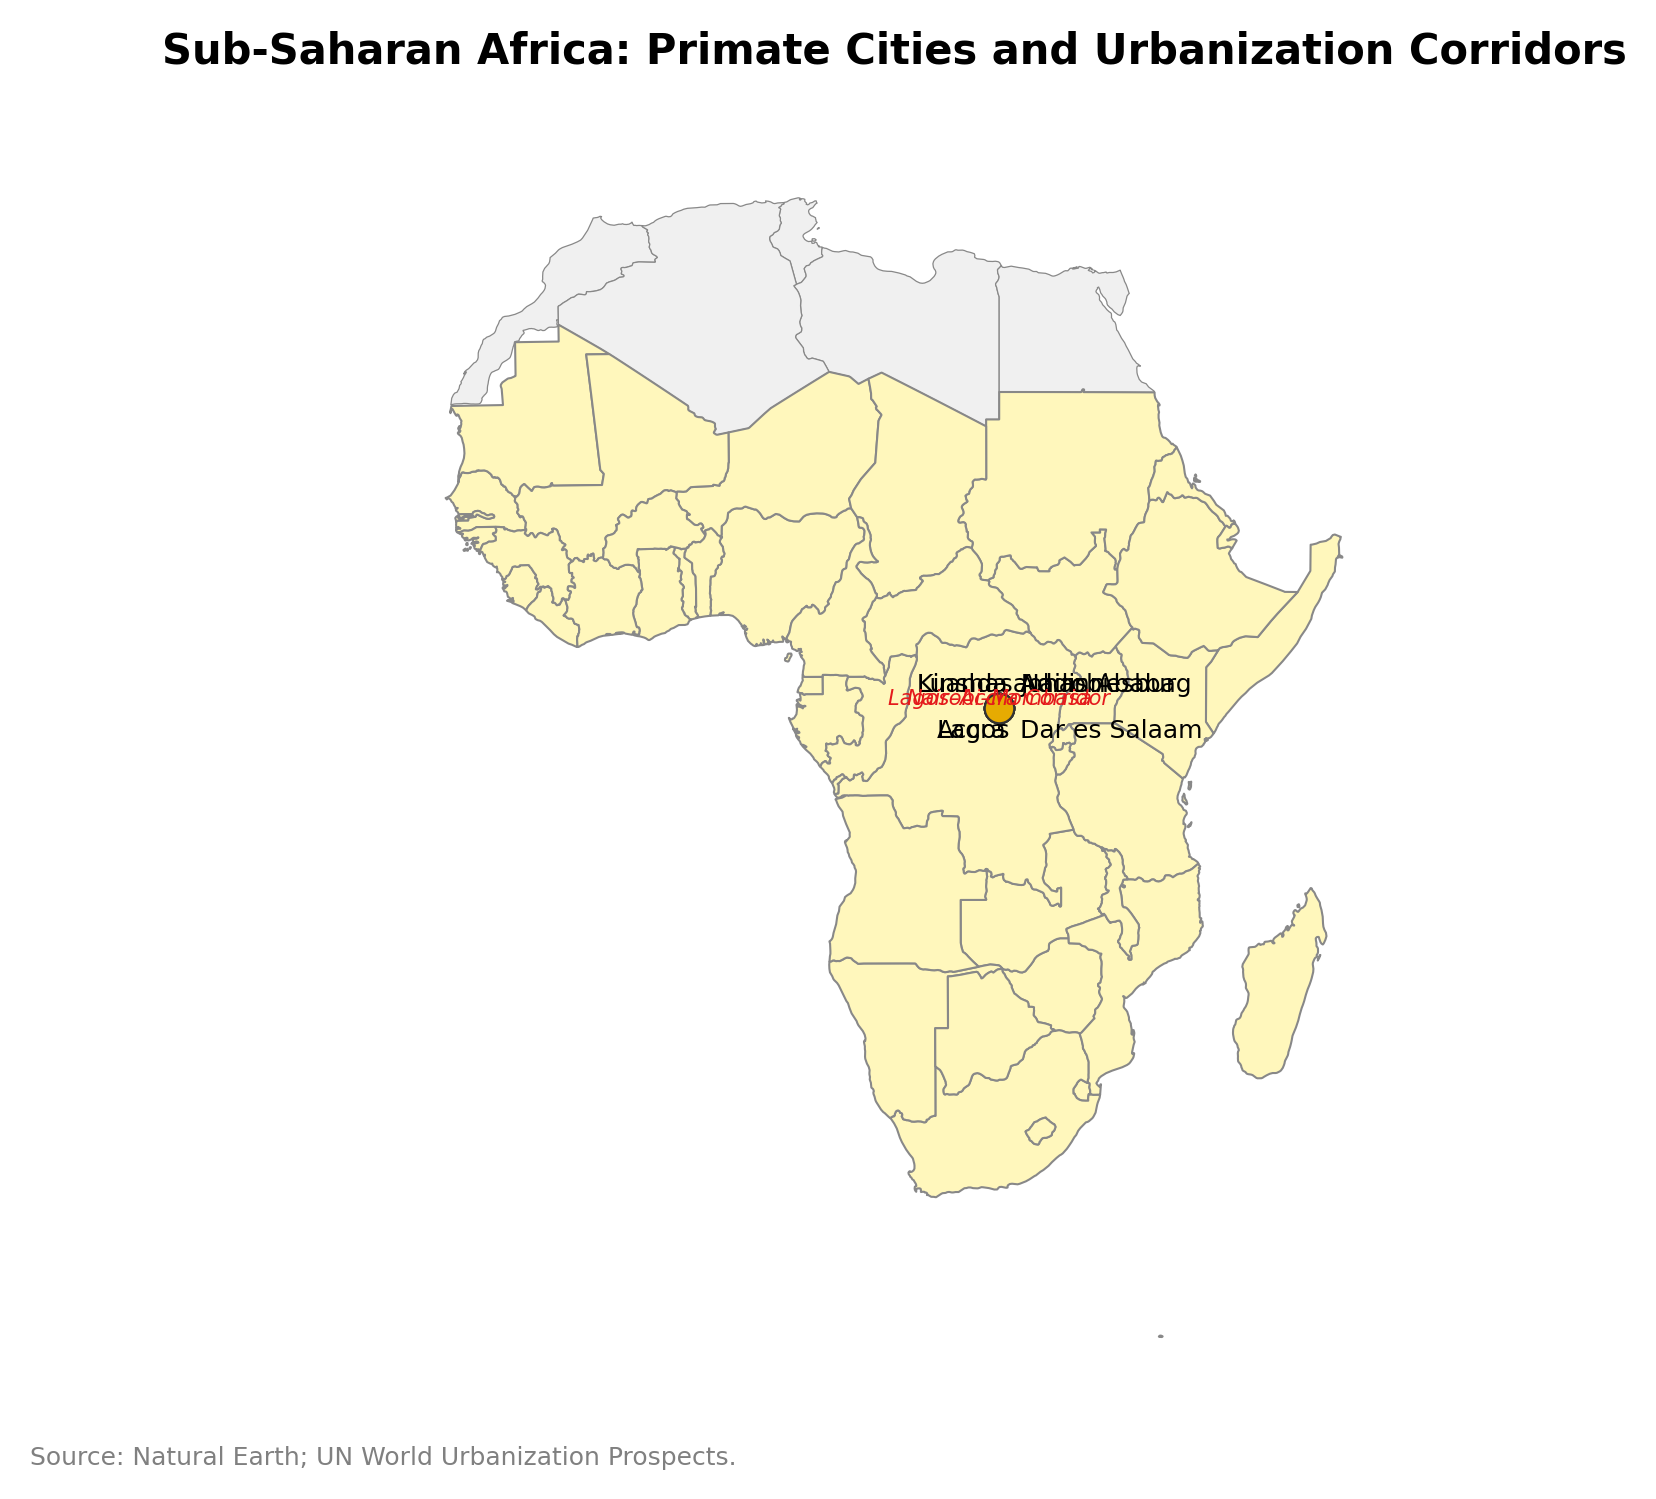
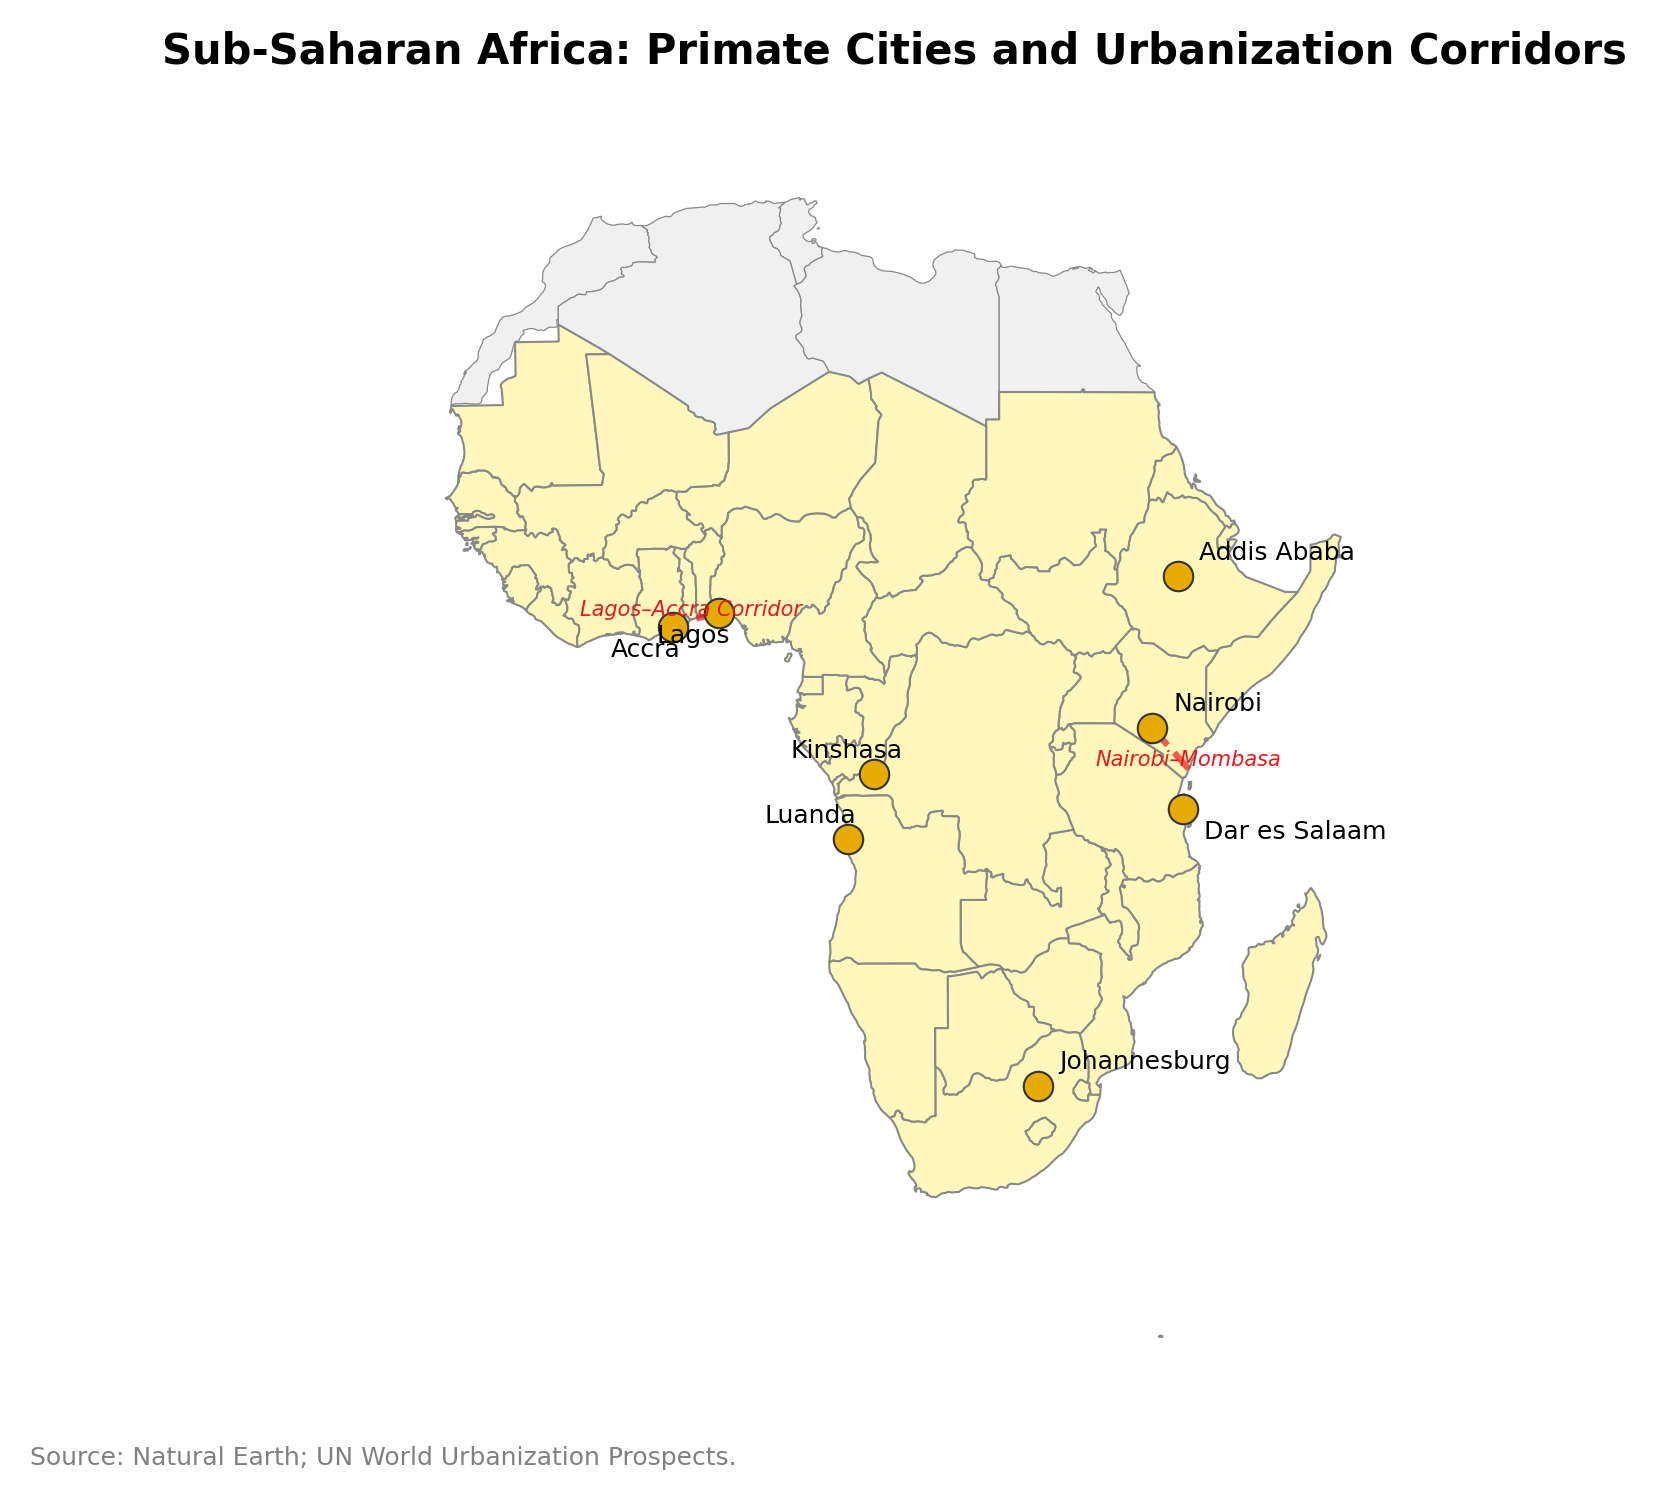
Fix map label positioning: project annotations to match map CRS
City labels, corridor lines, energy field markers, and refugee flow
arrows were plotted at raw lat/lon coordinates while map geometries
were reprojected to regional CRS (EPSG:3035, ESRI:54030, etc.).
Added project_cities/project_corridors/project_arrows helpers using
pyproj and updated all 12 map scripts (ch04–ch15) to transform
annotation coordinates before plotting. Regenerated all 24 PNGs.

diff --git a/figures/figure_utils.py b/figures/figure_utils.py
@@ -202,10 +202,61 @@ def load_annotations(chapter: str | None = None) -> Dict[str, Any]:
     return data
 
 
+def _project_point(lon: float, lat: float, crs) -> Tuple[float, float]:
+    """Transform a single lon/lat point to the target CRS."""
+    from pyproj import Transformer
+    transformer = Transformer.from_crs("EPSG:4326", crs, always_xy=True)
+    return transformer.transform(lon, lat)
+
+
+def project_cities(cities: List[Dict], crs) -> List[Dict]:
+    """Return a copy of city dicts with lon/lat projected to target CRS."""
+    from pyproj import Transformer
+    transformer = Transformer.from_crs("EPSG:4326", crs, always_xy=True)
+    out = []
+    for city in cities:
+        c = dict(city)
+        c["lon"], c["lat"] = transformer.transform(city["lon"], city["lat"])
+        out.append(c)
+    return out
+
+
+def project_corridors(corridors: List[Dict], crs) -> List[Dict]:
+    """Return a copy of corridor dicts with waypoints projected to target CRS."""
+    from pyproj import Transformer
+    transformer = Transformer.from_crs("EPSG:4326", crs, always_xy=True)
+    out = []
+    for corr in corridors:
+        c = dict(corr)
+        projected = []
+        for lon, lat in corr["waypoints"]:
+            px, py = transformer.transform(lon, lat)
+            projected.append([px, py])
+        c["waypoints"] = projected
+        out.append(c)
+    return out
+
+
+def project_arrows(arrows: List[Dict], crs) -> List[Dict]:
+    """Return a copy of arrow dicts with start/end projected to target CRS."""
+    from pyproj import Transformer
+    transformer = Transformer.from_crs("EPSG:4326", crs, always_xy=True)
+    out = []
+    for arrow in arrows:
+        a = dict(arrow)
+        sx, sy = transformer.transform(arrow["start"][0], arrow["start"][1])
+        ex, ey = transformer.transform(arrow["end"][0], arrow["end"][1])
+        a["start"] = [sx, sy]
+        a["end"] = [ex, ey]
+        out.append(a)
+    return out
+
+
 def annotate_cities(ax, cities: List[Dict], transform=None):
     """Plot city markers and labels on a matplotlib axis.
 
     Each city dict: {name, lat, lon, label_offset: [dx, dy], style: str}
+    Cities should already be projected to the map CRS via project_cities().
     """
     for city in cities:
         x, y = city["lon"], city["lat"]
@@ -216,20 +267,19 @@ def annotate_cities(ax, cities: List[Dict], transform=None):
         color = "#333333" if style == "major" else "#666666"
         fontsize = 7 if style == "major" else 6
 
-        kwargs = {"transform": transform} if transform is not None else {}
-        ax.scatter(x, y, s=size, c=color, marker=marker, zorder=5, **kwargs)
+        ax.scatter(x, y, s=size, c=color, marker=marker, zorder=5)
         ax.annotate(
             city["name"], (x, y), xytext=(dx, dy),
             textcoords="offset points", fontsize=fontsize,
             ha="left", va="bottom", zorder=6,
-            **({} if transform is None else {}),
         )
 
 
 def annotate_corridors(ax, corridors: List[Dict], transform=None):
     """Draw corridor route lines on a matplotlib axis.
 
-    Each corridor dict: {name, waypoints: [[lon,lat],...], style: str}
+    Each corridor dict: {name, waypoints: [[x,y],...], style: str}
+    Waypoints should already be projected to the map CRS via project_corridors().
     """
     for corridor in corridors:
         pts = np.array(corridor["waypoints"])
@@ -254,7 +304,8 @@ def annotate_corridors(ax, corridors: List[Dict], transform=None):
 def annotate_arrows(ax, arrows: List[Dict], transform=None):
     """Draw directional flow arrows on a matplotlib axis.
 
-    Each arrow dict: {label, start: [lon,lat], end: [lon,lat], style: str}
+    Each arrow dict: {label, start: [x,y], end: [x,y], style: str}
+    Points should already be projected to the map CRS via project_arrows().
     """
     for arrow in arrows:
         x0, y0 = arrow["start"]

diff --git a/figures/ch11_figures.py b/figures/ch11_figures.py
@@ -18,7 +18,7 @@ from figure_utils import (
     FIGSIZE_MAP, LAND_COLOR, WATER_COLOR, BORDER_COLOR, REGION_COLORS,
     add_figure_source, save_figure, save_summary,
     add_common_args, get_output_dir, setup_map_ax, load_annotations,
-    annotate_cities,
+    annotate_cities, project_cities,
 )
 
 
@@ -58,17 +58,21 @@ def plot_mena_energy_map(output_dir: Path, seed: int = 42) -> dict:
     setup_map_ax(ax, "MENA: GCC Energy Economies and Diversification Hubs")
 
     ann = load_annotations("ch11")
+    crs = PROJECTIONS["mena"]
     if ann.get("cities"):
-        annotate_cities(ax, ann["cities"])
+        annotate_cities(ax, project_cities(ann["cities"], crs))
 
-    # Energy field markers
-    for field in ann.get("energy_zones", []):
-        ax.plot(field["lon"], field["lat"], "^", color="#d62728",
-                markersize=8, zorder=5, alpha=0.8)
-        ax.annotate(field["name"], (field["lon"], field["lat"]),
-                    fontsize=4.5, ha="left", va="bottom",
-                    xytext=(3, 3), textcoords="offset points",
-                    color="#d62728")
+    # Energy field markers (project to map CRS)
+    energy_zones = ann.get("energy_zones", [])
+    if energy_zones:
+        proj_zones = project_cities(energy_zones, crs)  # same lon/lat structure
+        for field in proj_zones:
+            ax.plot(field["lon"], field["lat"], "^", color="#d62728",
+                    markersize=8, zorder=5, alpha=0.8)
+            ax.annotate(field["name"], (field["lon"], field["lat"]),
+                        fontsize=4.5, ha="left", va="bottom",
+                        xytext=(3, 3), textcoords="offset points",
+                        color="#d62728")
 
     from matplotlib.patches import Patch
     from matplotlib.lines import Line2D

diff --git a/figures/ch13_figures.py b/figures/ch13_figures.py
@@ -18,7 +18,7 @@ from figure_utils import (
     FIGSIZE_MAP, LAND_COLOR, WATER_COLOR, BORDER_COLOR, REGION_COLORS,
     add_figure_source, save_figure, save_summary,
     add_common_args, get_output_dir, setup_map_ax, load_annotations,
-    annotate_cities, annotate_corridors,
+    annotate_cities, annotate_corridors, project_cities, project_corridors,
 )
 
 
@@ -48,9 +48,10 @@ def plot_ssa_urbanization_map(output_dir: Path, seed: int = 42) -> dict:
     setup_map_ax(ax, "Sub-Saharan Africa: Primate Cities and Urbanization Corridors")
 
     ann = load_annotations("ch13")
+    crs = PROJECTIONS["africa"]
     if ann.get("cities"):
         # Plot cities with size proportional to importance
-        for city in ann["cities"]:
+        for city in project_cities(ann["cities"], crs):
             ax.scatter(city["lon"], city["lat"], s=50, c="#e6ab02",
                        edgecolors="#333333", linewidths=0.5, zorder=5)
             dx, dy = city.get("label_offset", [5, 3])
@@ -59,7 +60,7 @@ def plot_ssa_urbanization_map(output_dir: Path, seed: int = 42) -> dict:
                         xytext=(dx, dy), textcoords="offset points",
                         zorder=6)
     if ann.get("corridors"):
-        annotate_corridors(ax, ann["corridors"])
+        annotate_corridors(ax, project_corridors(ann["corridors"], crs))
 
     add_figure_source(fig, "Natural Earth; UN World Urbanization Prospects.")
     fig.tight_layout(rect=[0, 0.03, 1, 1])

diff --git a/figures/ch14_figures.py b/figures/ch14_figures.py
@@ -18,7 +18,7 @@ from figure_utils import (
     FIGSIZE_MAP, LAND_COLOR, WATER_COLOR, BORDER_COLOR, REGION_COLORS,
     add_figure_source, save_figure, save_summary,
     add_common_args, get_output_dir, setup_map_ax, load_annotations,
-    annotate_cities, annotate_corridors,
+    annotate_cities, annotate_corridors, project_cities, project_corridors,
 )
 
 
@@ -48,9 +48,10 @@ def plot_afcfta_corridors_map(output_dir: Path, seed: int = 42) -> dict:
     setup_map_ax(ax, "AfCFTA Trade Corridors and Major Ports")
 
     ann = load_annotations("ch14")
+    crs = PROJECTIONS["africa"]
     if ann.get("cities"):
         # Port cities as anchor markers
-        for city in ann["cities"]:
+        for city in project_cities(ann["cities"], crs):
             ax.scatter(city["lon"], city["lat"], s=40, c="#377eb8",
                        marker="s", edgecolors="#333333", linewidths=0.5, zorder=5)
             dx, dy = city.get("label_offset", [5, 3])
@@ -59,7 +60,7 @@ def plot_afcfta_corridors_map(output_dir: Path, seed: int = 42) -> dict:
                         xytext=(dx, dy), textcoords="offset points",
                         zorder=6)
     if ann.get("corridors"):
-        annotate_corridors(ax, ann["corridors"])
+        annotate_corridors(ax, project_corridors(ann["corridors"], crs))
 
     add_figure_source(fig, "Natural Earth; AfCFTA Secretariat; UNECA corridor database.")
     fig.tight_layout(rect=[0, 0.03, 1, 1])

diff --git a/figures/ch06_figures.py b/figures/ch06_figures.py
@@ -19,7 +19,7 @@ from figure_utils import (
     FIGSIZE_MAP, FIGSIZE_THEMATIC, LAND_COLOR, WATER_COLOR, BORDER_COLOR,
     REGION_COLORS, QUAL_PALETTE, add_figure_source, save_figure, save_summary,
     add_common_args, get_output_dir, setup_map_ax, load_annotations,
-    annotate_cities, annotate_corridors,
+    annotate_cities, annotate_corridors, project_cities, project_corridors,
 )
 
 
@@ -49,10 +49,11 @@ def plot_east_asia_map(output_dir: Path, seed: int = 42) -> dict:
     setup_map_ax(ax, "East Asia & ASEAN: Technology Corridors and SEZs")
 
     ann = load_annotations("ch06")
+    crs = PROJECTIONS["east_asia"]
     if ann.get("cities"):
-        annotate_cities(ax, ann["cities"])
+        annotate_cities(ax, project_cities(ann["cities"], crs))
     if ann.get("corridors"):
-        annotate_corridors(ax, ann["corridors"])
+        annotate_corridors(ax, project_corridors(ann["corridors"], crs))
 
     add_figure_source(fig, "Natural Earth; ASEAN Secretariat; national SEZ databases.")
     fig.tight_layout(rect=[0, 0.03, 1, 1])

diff --git a/figures/ch04_figures.py b/figures/ch04_figures.py
@@ -19,7 +19,7 @@ from figure_utils import (
     FIGSIZE_MAP, FIGSIZE_THEMATIC, LAND_COLOR, WATER_COLOR, BORDER_COLOR,
     REGION_COLORS, add_figure_source, save_figure, save_summary,
     add_common_args, get_output_dir, setup_map_ax, load_annotations,
-    annotate_cities, annotate_corridors,
+    annotate_cities, annotate_corridors, project_cities, project_corridors,
 )
 
 
@@ -55,10 +55,11 @@ def plot_north_america_map(output_dir: Path, seed: int = 42) -> dict:
     setup_map_ax(ax, "North America: USMCA, Industrial Belts & Trade Corridors")
 
     ann = load_annotations("ch04")
+    crs = PROJECTIONS["americas"]
     if ann.get("cities"):
-        annotate_cities(ax, ann["cities"])
+        annotate_cities(ax, project_cities(ann["cities"], crs))
     if ann.get("corridors"):
-        annotate_corridors(ax, ann["corridors"])
+        annotate_corridors(ax, project_corridors(ann["corridors"], crs))
 
     add_figure_source(fig, "Natural Earth; BTS cross-border flow data.")
     fig.tight_layout(rect=[0, 0.03, 1, 1])

diff --git a/figures/ch07_figures.py b/figures/ch07_figures.py
@@ -19,7 +19,7 @@ from figure_utils import (
     FIGSIZE_MAP, FIGSIZE_THEMATIC, LAND_COLOR, WATER_COLOR, BORDER_COLOR,
     REGION_COLORS, add_figure_source, save_figure, save_summary,
     add_common_args, get_output_dir, setup_map_ax, load_annotations,
-    annotate_cities, annotate_corridors,
+    annotate_cities, annotate_corridors, project_cities, project_corridors,
 )
 
 
@@ -53,10 +53,11 @@ def plot_china_asean_map(output_dir: Path, seed: int = 42) -> dict:
     setup_map_ax(ax, "China & ASEAN: BRI Corridors and Economic Integration")
 
     ann = load_annotations("ch07")
+    crs = PROJECTIONS["east_asia"]
     if ann.get("cities"):
-        annotate_cities(ax, ann["cities"])
+        annotate_cities(ax, project_cities(ann["cities"], crs))
     if ann.get("corridors"):
-        annotate_corridors(ax, ann["corridors"])
+        annotate_corridors(ax, project_corridors(ann["corridors"], crs))
 
     add_figure_source(fig, "Natural Earth; BRI official project list.")
     fig.tight_layout(rect=[0, 0.03, 1, 1])

diff --git a/figures/ch12_figures.py b/figures/ch12_figures.py
@@ -18,7 +18,7 @@ from figure_utils import (
     FIGSIZE_MAP, LAND_COLOR, WATER_COLOR, BORDER_COLOR,
     add_figure_source, save_figure, save_summary,
     add_common_args, get_output_dir, setup_map_ax, load_annotations,
-    annotate_cities, annotate_arrows,
+    annotate_cities, annotate_arrows, project_cities, project_arrows,
 )
 
 
@@ -60,10 +60,11 @@ def plot_conflict_zones_map(output_dir: Path, seed: int = 42) -> dict:
     setup_map_ax(ax, "MENA Conflict Zones and Refugee Displacement")
 
     ann = load_annotations("ch12")
+    crs = PROJECTIONS["mena"]
     if ann.get("cities"):
-        annotate_cities(ax, ann["cities"])
+        annotate_cities(ax, project_cities(ann["cities"], crs))
     if ann.get("refugee_flows"):
-        annotate_arrows(ax, ann["refugee_flows"])
+        annotate_arrows(ax, project_arrows(ann["refugee_flows"], crs))
 
     from matplotlib.patches import Patch
     legend_items = [

diff --git a/figures/ch09_figures.py b/figures/ch09_figures.py
@@ -18,7 +18,7 @@ from figure_utils import (
     FIGSIZE_MAP, LAND_COLOR, WATER_COLOR, BORDER_COLOR, REGION_COLORS,
     add_figure_source, save_figure, save_summary,
     add_common_args, get_output_dir, setup_map_ax, load_annotations,
-    annotate_cities,
+    annotate_cities, project_cities,
 )
 
 
@@ -64,8 +64,9 @@ def plot_eu_convergence_map(output_dir: Path, seed: int = 42) -> dict:
     setup_map_ax(ax, "EU Convergence: GDP per Capita Index and Structural Funds Eligibility")
 
     ann = load_annotations("ch09")
+    crs = PROJECTIONS["europe"]
     if ann.get("cities"):
-        annotate_cities(ax, ann["cities"])
+        annotate_cities(ax, project_cities(ann["cities"], crs))
 
     add_figure_source(fig, "Eurostat; Natural Earth. 75% threshold marks Structural Funds eligibility.")
     fig.tight_layout(rect=[0, 0.03, 1, 1])

diff --git a/figures/ch08_figures.py b/figures/ch08_figures.py
@@ -19,7 +19,7 @@ from figure_utils import (
     FIGSIZE_MAP, FIGSIZE_THEMATIC, LAND_COLOR, WATER_COLOR, BORDER_COLOR,
     REGION_COLORS, add_figure_source, save_figure, save_summary,
     add_common_args, get_output_dir, setup_map_ax, load_annotations,
-    annotate_cities,
+    annotate_cities, project_cities,
 )
 
 
@@ -48,8 +48,9 @@ def plot_india_it_map(output_dir: Path, seed: int = 42) -> dict:
     setup_map_ax(ax, "India: IT-BPO Clusters and Special Economic Zones")
 
     ann = load_annotations("ch08")
+    crs = PROJECTIONS["south_asia"]
     if ann.get("cities"):
-        annotate_cities(ax, ann["cities"])
+        annotate_cities(ax, project_cities(ann["cities"], crs))
 
     add_figure_source(fig, "Natural Earth; NASSCOM; Indian SEZ Board.")
     fig.tight_layout(rect=[0, 0.03, 1, 1])

diff --git a/figures/ch10_figures.py b/figures/ch10_figures.py
@@ -18,7 +18,7 @@ from figure_utils import (
     FIGSIZE_MAP, LAND_COLOR, WATER_COLOR, BORDER_COLOR, REGION_COLORS,
     add_figure_source, save_figure, save_summary,
     add_common_args, get_output_dir, setup_map_ax, load_annotations,
-    annotate_cities,
+    annotate_cities, project_cities,
 )
 
 
@@ -70,8 +70,9 @@ def plot_north_south_map(output_dir: Path, seed: int = 42) -> dict:
     setup_map_ax(ax, "EU North-South Divide and Brexit Geography")
 
     ann = load_annotations("ch10")
+    crs = PROJECTIONS["europe"]
     if ann.get("cities"):
-        annotate_cities(ax, ann["cities"])
+        annotate_cities(ax, project_cities(ann["cities"], crs))
 
     # Legend
     from matplotlib.patches import Patch

diff --git a/figures/ch05_figures.py b/figures/ch05_figures.py
@@ -19,7 +19,7 @@ from figure_utils import (
     FIGSIZE_MAP, FIGSIZE_THEMATIC, LAND_COLOR, WATER_COLOR, BORDER_COLOR,
     REGION_COLORS, add_figure_source, save_figure, save_summary,
     add_common_args, get_output_dir, setup_map_ax, load_annotations,
-    annotate_cities,
+    annotate_cities, project_cities,
 )
 
 
@@ -68,8 +68,9 @@ def plot_latin_america_map(output_dir: Path, seed: int = 42) -> dict:
 
     setup_map_ax(ax, "Latin America: Trade Blocs and Key Economies")
 
+    crs = PROJECTIONS["latin_america"]
     if ann.get("cities"):
-        annotate_cities(ax, ann["cities"])
+        annotate_cities(ax, project_cities(ann["cities"], crs))
 
     # Legend
     from matplotlib.patches import Patch
